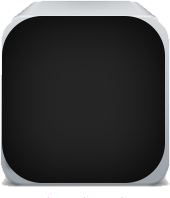
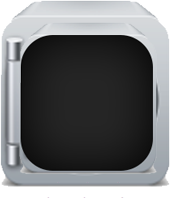
s

Changed region(s): [[0.0, 0.0606, 0.9706, 0.9394]]

diff --git a/assets/js/main.js b/assets/js/main.js
@@ -84,6 +84,7 @@ $('.cyb-change1').click(function(){
 $('.cyb-change2').click(function(){
     changePosition('.cyb-main-background','-8000px','768px',3000,function() {});
 
+    $( ".cyb-party" ).css( "display", "none" );
     setTimeout(function(){
 
         $( ".character2" ).css( "display", "block" );
@@ -105,6 +106,7 @@ $('.cyb-change2').click(function(){
         $( ".safe2" ).css( "display", "block" );
         $( ".safe2" ).addClass("animated").addClass("bounceInDown ");
 
+        $( ".safe-door-rotate" ).css( "display", "block" );
     }, 5000);
 
     setTimeout(function(){
@@ -114,38 +116,15 @@ $('.cyb-change2').click(function(){
 
     }, 5000);
 
+    setTimeout(function(){
+
+        openSafe(".safe", 0, 2000)
+
+    }, 6000);
+
+
 });
 
-
-$( "#kaftor" ).click(function() {
-
-
-    $( ".character2" ).css( "display", "block" );
-
-    $( ".character1" ).css( "display", "block" );
-    $( ".character1" ).addClass("animated-slow").addClass("slideFromRight ");
-
-    setTimeout(function(){
-        smalltoBig('.character2', 313, 439, 5, 10, 1500);
-    }, 1000);
-
-    setTimeout(function(){
-
-        $( ".safe" ).css( "display", "block" );
-        $( ".safe" ).addClass("animated-slow").addClass("bounceInDown ");
-        $( ".safe2" ).css( "display", "block" );
-        $( ".safe2" ).addClass("animated-slow").addClass("bounceInDown ");
-
-    }, 2000);
-
-    setTimeout(function(){
-
-        $( ".safe-shadow" ).css( "display", "block" );
-        fadeIn(".safe-shadow", 2000)
-
-    }, 2000);
-
-});
 
 function fadeIn(nameClass,time){
     $(nameClass).animate({
@@ -159,6 +138,12 @@ function smalltoBig(nameClass,x,y,bottom,left,time){
         'height': y,
         bottom: bottom,
         'margin-left': left
+    }, time);
+}
+
+function openSafe(nameClass,x,time){
+    $(nameClass).animate({
+        'width': x
     }, time);
 }
 

diff --git a/assets/css/common.css b/assets/css/common.css
@@ -78,7 +78,7 @@ body{
     height: 198px;
     width: 170px;
     position: fixed;
-    bottom: 20px;
+    bottom: 70px;
     display: none;
 }
 
@@ -87,16 +87,17 @@ body{
     height: 198px;
     width: 170px;
     position: fixed;
-    bottom: 20px;
+    bottom: 70px;
     display: none;
 }
+
 
 .safe-shadow {
     margin-left: 235px;
     height: 60px;
     width: 290px;
     position: fixed;
-    bottom: -3px;
+    bottom: 47px;
     display: none;
     opacity: 0;
 }

diff --git a/index.html b/index.html
@@ -82,6 +82,7 @@
 <img src="assets/images/safe2.png" class="safe2" />
 <img src="assets/images/safe.png"  class="safe" />
 <img src="assets/images/safe-shadow.png" class="safe-shadow" />
+
 <!--last form-->
 
 <script src="assets/js/jquery-3.1.1.min.js"></script>
